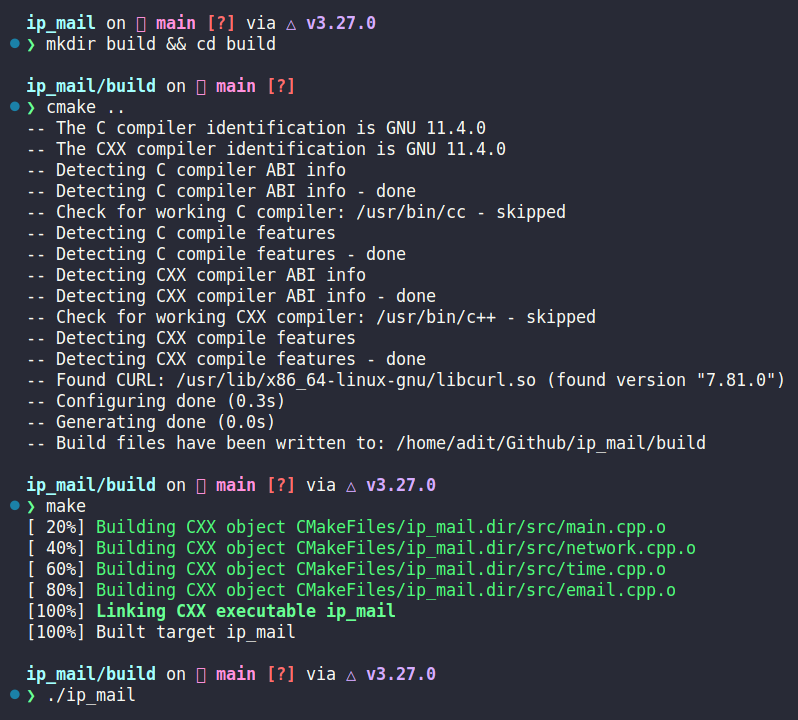
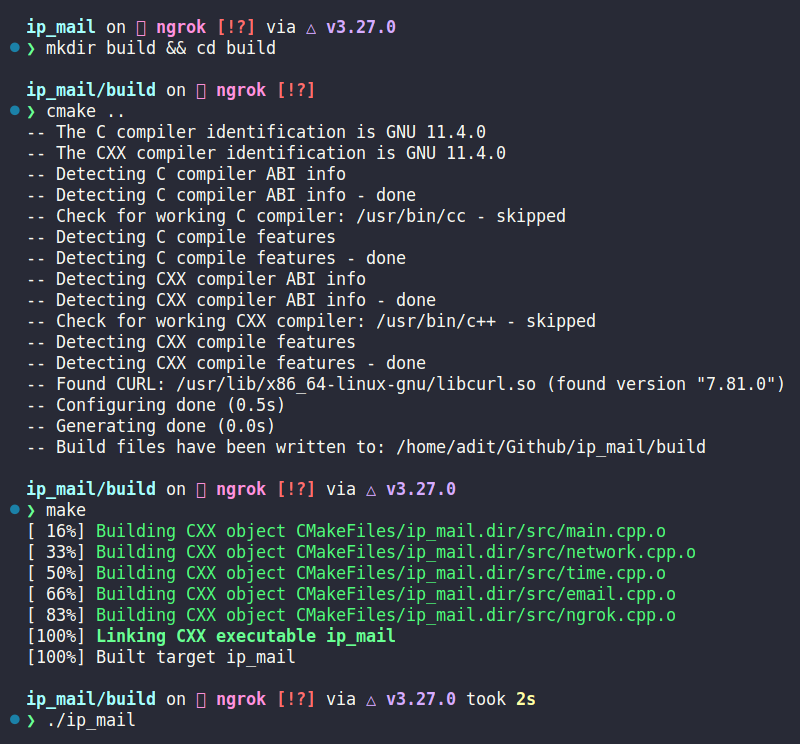
add ngrok support

Changed region(s): [[0.0, 0.0, 0.9925, 1.0], [0.6617, 0.3972, 0.7519, 0.4583]]

diff --git a/src/ngrok.cpp b/src/ngrok.cpp
@@ -1,0 +1,66 @@
+#include <ip_mail/ngrok.h>
+
+Ngrok::Ngrok(){
+  this->curl = curl_easy_init();
+
+  this->setup();
+  this->find_endpoint();
+}
+
+std::string Ngrok::get_endpoint(){
+  return this->endpoint;
+}
+
+void Ngrok::setup(){
+  if (!this->curl){
+    std::cerr << "[ERROR]: CURL not found!" << std::endl;
+    exit(1);
+  }
+
+  curl_easy_setopt(this->curl, CURLOPT_URL, this->curl_url.c_str());
+  curl_easy_setopt(this->curl, CURLOPT_WRITEFUNCTION, write);
+}
+
+void Ngrok::find_endpoint(){
+  std::string response_data;
+  curl_easy_setopt(this->curl, CURLOPT_WRITEDATA, &response_data);
+  
+  int i = SLEEP_TIMEOUT;
+  while ((i--) && (res != CURLE_OK)){
+    response_data.clear();
+    this->res = curl_easy_perform(this->curl);
+    std::this_thread::sleep_for(std::chrono::seconds(1));
+  }
+
+  if (res != CURLE_OK){
+    std::cerr << "[ERROR] Curl easy perform failed! " << curl_easy_strerror(res) << std::endl;
+    exit(1);
+  }
+
+  this->endpoint = this->find_value_by_key(response_data, "public_url");
+  this->finish();
+}
+
+size_t Ngrok::write(void* contents, size_t size, size_t nmemb, std::string* output){
+  size_t total_size = size * nmemb;
+  if ((size == 0) || (nmemb == 0) || ((size*nmemb) < 1)){
+    return 0;
+  }
+  output->append((char*)contents, total_size);
+  return total_size;
+}
+
+std::string Ngrok::find_value_by_key(std::string& json_str, const std::string& key){
+  size_t key_pos = json_str.find("\"" + key + "\"");
+  if (key_pos == std::string::npos){
+    return "";
+  }
+
+  size_t value_pos = json_str.find("\"", key_pos + key.length() + 3);
+  size_t end_pos = json_str.find("\"", value_pos + 1);
+  return json_str.substr(value_pos+1, end_pos-value_pos-1);
+}
+
+void Ngrok::finish(){
+  curl_easy_cleanup(this->curl);
+}

diff --git a/src/email.cpp b/src/email.cpp
@@ -62,13 +62,13 @@ size_t Email::payload_source(char* ptr, size_t size, size_t nmemb, void* userp){
   return 0;
 }
 
-void Email::send(std::string dest_email, std::string ip_addr, std::string time){
+void Email::send(std::string dest_email, std::string ip_addr, std::string endpoint, std::string time){
   if ((this->username.empty()) || (this->password.empty())){
     std::cerr << "[ERROR] class Email not configured. Use Email.configure() first!" << std::endl;
     exit(1);
   }
 
-  std::string message = "Dear Coordinators,\r\n\r\nThis email is generated to inform you that there was a power supply interruption at observatory causing the system to restart at " + time + ".\r\n\r\nThe new IP address of the system is: " + ip_addr + "\r\n\r\nRegards,\r\n\r\nObservatory RaspberryPi\r\n";
+  std::string message = "Dear Coordinators,\r\n\r\nThis email is generated to inform you that there was a power supply interruption at observatory causing the system to restart at " + time + ".\r\n\r\nThe new IP address of the system is: " + ip_addr + "\r\n" + "Ngrok tunneling to: " + endpoint + "\r\n\r\nRegards,\r\n\r\nObservatory RaspberryPi\r\n";
   this->payload_text = this->payload_text + message;
   email_payload_text = this->payload_text.c_str();
 

diff --git a/include/ip_mail/config.h b/include/ip_mail/config.h
@@ -1,5 +1,6 @@
 #include <iostream>
 
-const std::string EMAIL_ID = "your-email-id@gmail.com";
-const std::string EMAIL_PASSWORD = "<insert app password here>";
-const std::string DEST_EMAIL = "astroclub@iitk.ac.in";
+const std::string EMAIL_ID = "your-email-id@gmail.com";             // Email account from which mail will be sent
+const std::string EMAIL_PASSWORD = "<insert app password here>";    // Authentication string for the above email ID
+const std::string DEST_EMAIL = "astroclub@iitk.ac.in";              // Target of destination email account
+const int SLEEP_TIMEOUT = 10;                                       // Duration for which to wait for ngrok tunneling to be active

diff --git a/include/ip_mail/ngrok.h b/include/ip_mail/ngrok.h
@@ -1,0 +1,26 @@
+#include <thread>
+#include <iostream>
+#include <curl/curl.h>
+
+#include <ip_mail/config.h>
+
+class Ngrok
+{
+  private:
+    std::string curl_url = "http://localhost:4040/api/tunnels";
+    std::string endpoint;
+
+    CURL* curl;
+    CURLcode res;
+
+    void setup();
+    void find_endpoint();
+    static size_t write(void* contents, size_t size, size_t nmemb, std::string* output);
+    std::string find_value_by_key(std::string& json_str, const std::string& key);
+    void finish();
+
+  public:
+    Ngrok();
+
+    std::string get_endpoint();
+};

diff --git a/src/main.cpp b/src/main.cpp
@@ -1,7 +1,7 @@
-#include <ip_mail/config.h>
 #include <ip_mail/network.h>
 #include <ip_mail/time.h>
 #include <ip_mail/email.h>
+#include <ip_mail/ngrok.h>
 
 int main(int argc, char** argv){
   Network network;
@@ -10,9 +10,12 @@ int main(int argc, char** argv){
   Time current_time;
   std::string now = current_time.now();
 
+  Ngrok ngrok;
+  std::string endpoint = ngrok.get_endpoint();
+  
   Email email;
 	email.configure(EMAIL_ID, EMAIL_PASSWORD);
-	email.send(DEST_EMAIL, ip_addr, now);
+	email.send(DEST_EMAIL, ip_addr, endpoint, now);
 
   return 0;
 }

diff --git a/include/ip_mail/email.h b/include/ip_mail/email.h
@@ -27,5 +27,5 @@ class Email
     Email();
 
     void configure(const std::string username, const std::string password);
-    void send(std::string dest_email, std::string ip_addr, std::string time);
+    void send(std::string dest_email, std::string ip_addr, std::string endpoint, std::string time);
 };

diff --git a/README.md b/README.md
@@ -1,21 +1,25 @@
 # IP Mail
 
 ## Introduction
-A simple C++ program that can be run on boot or on network change to send local ip address of the system to a pre-defined email ID, eliminating the need to connect an external monitor, find the ip and then ssh into the device.
+A simple C++ program that can be run on boot or on network change to send local ip address of the system to a pre-defined email ID, eliminating the need to connect an external monitor, find the ip and then ssh into the device. An additional feature in this branch is tcp tunneling using ngrok.
 
 ## Setup
-1. cURL, Cmake and a C++ compiler is required for compiling the code
+1. cURL, Cmake and a C++ compiler is required for compiling the code. Also install openssh-server for the ability to ssh.
 ```sh
-sudo apt install curl cmake make g++ -y
+sudo apt install curl cmake make g++ openssh-server -y
 ```
-2. Modify line 3, 4 and/or 5 of [config.h](./include/ip_mail/config.h) as per your requirements. Note that instead of putting your gmail account password, insert an app password instead. Read more about it [here](https://support.google.com/accounts/answer/185833?hl=en). Entering your gmail password will throw an error.
-3. Navigate to the project directory and run the following commands to build:
+2. Install [ngrok](https://ngrok.com/download) on your device. Configure your authentication token as well.
+3. Modify line 3, 4, 5 and/or 6 of [config.h](./include/ip_mail/config.h) as per your requirements. Note that instead of putting your gmail account password, insert an app password instead. Read more about it [here](https://support.google.com/accounts/answer/185833?hl=en). Entering your gmail password will throw an error.
+4. Navigate to the project directory and run the following commands to build:
 ```sh
 mkdir build && cd build
 cmake ..
 make
 ```
-4. You'll now see an executable named `ip_mail` that can now be run as a startup application.
+5. You'll now see an executable named `ip_mail` that can now be run as a startup application. Along with that, you will also need to add another startup application for ngrok tunneling of the ssh port #22 via tcp connection, the command for which is:
+```sh
+ngrok tcp 22
+```
 
 ## Example
 After running the commands, you will see the following output:
@@ -31,6 +35,7 @@ After running the commands, you will see the following output:
 │       ├── config.h
 │       ├── email.h
 │       ├── network.h
+│       ├── ngrok.h
 │       └── time.h
 ├── LICENSE
 ├── README.md
@@ -38,5 +43,6 @@ After running the commands, you will see the following output:
     ├── email.cpp
     ├── main.cpp
     ├── network.cpp
+    ├── ngrok.cpp
     └── time.cpp
 ```
